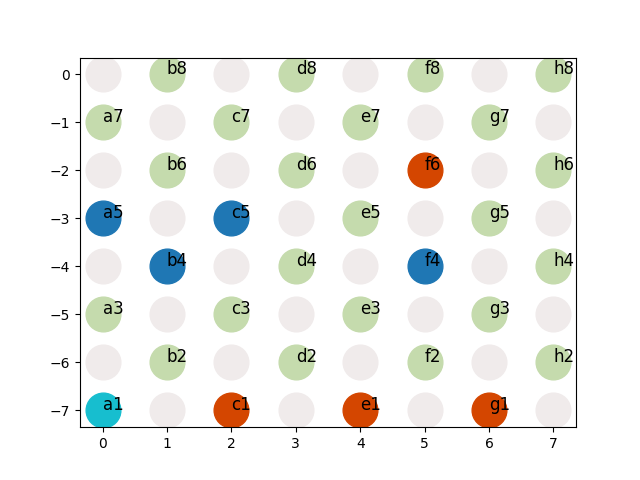
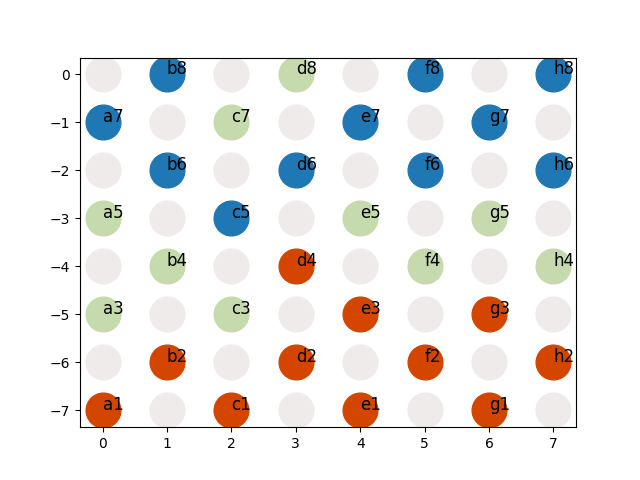
final code commit

diff --git a/orchestration.py b/orchestration.py
@@ -22,14 +22,14 @@ for i in range(0,50):
         print("time_up")
     change_time("input_dumb.txt", dumb_time)
     starttime = timeit.default_timer()
-    subprocess.call(['python3', 'homework_dumb.py'])
+    subprocess.call(['python3', 'checkers_agent_dumb.py'])
     dumb_time -= (timeit.default_timer() - starttime)*10
 
     print("dumb one played")
     time.sleep(1)
     change_time("input_smart.txt", smart_time)
     starttime = timeit.default_timer()
-    subprocess.call(['python3','homework_smarter.py'])
+    subprocess.call(['python3','checkers_agent_smart.py'])
     smart_time -= timeit.default_timer() - starttime
     print("smart one played")
     time.sleep(1)

diff --git a/checkers_agent.py b/checkers_agent.py
@@ -400,7 +400,7 @@ class problem_struct:
 
 def main():
     #starttime = timeit.default_timer()
-    f = open("input_ali.txt", "r")
+    f = open("input.txt", "r")
     #f2 = open("output.txt", "w")
 
     game_type = f.readline().rstrip()

diff --git a/README.md b/README.md
@@ -32,8 +32,7 @@
 <h2 id="about-the-project"> :pencil: About The Project</h2>
 
 <p align="justify"> 
-  For those of you not familiar with Pacman, it's a game where Pacman (the yellow circle with a mouth in the above figure) moves around in a maze and tries to eat as many food pellets (the small white dots) as possible, while avoiding the ghosts (the other two agents with eyes in the above figure). If Pacman eats all the food in a maze, it wins.
-</p>
+  English draughts (British English) also called American checkers or straight checkers, is a form of the strategy board game checkers. It is played on an 8×8 checkerboard with 12 pieces per side.</p>
 
 ![-----------------------------------------------------](https://raw.githubusercontent.com/andreasbm/readme/master/assets/lines/rainbow.png)
 
@@ -41,8 +40,22 @@
 <h2 id="overview"> :cloud: Overview</h2>
 
 <p align="justify"> 
-  In this project, the Pacman agent will find paths through his maze world, both to reach a particular location and to collect food efficiently. I implemented general search algorithms such as depth-first, breadth-first, uniform cost, and A* search algorithms which are used to solve navigation problems in the Pacman world.
-</p>
+  In this project, the checkers AI agent needs to find the most optimal move to make given an input.txt file of the below format. 'b' and 'w' represent regular black and white coins respectively. 'B' and 'W' represent black and white coins that have become kings coins and can move front and back.
+  <pre><code>GAME
+BLACK
+100.0
+........
+....W...
+.....w..
+....W.w.
+........
+w.w.W.w.
+...B....
+......w.</code></pre>
+The AI agent needs to produce the most viable move output in the following format. If multiple jumps are possible the sequence of jumps needs to be written into the output folder. For the above example input below is one suggested move output which results in most points.
+  <pre><code>J d2 f4
+J f4 d6
+J d6 f8</code></pre>
 
 ![-----------------------------------------------------](https://raw.githubusercontent.com/andreasbm/readme/master/assets/lines/rainbow.png)
 
@@ -50,23 +63,25 @@
 <h2 id="project-files-description"> :floppy_disk: Project Files Description</h2>
 
 <ul>
-  <li><b>search.py</b> - Where all of the search algorithms reside.</li>
-  <li><b>searchAgents.py</b> - Where all of the search-based agents reside.</li>
-  <li><b>pacman.py</b> - The main file that runs Pacman games. This file also describes a Pacman GameState types.</li>
-  <li><b>game.py</b> - The logic behind how the Pacman world works.</li>
-  <li><b>util.py</b> - Useful data structures for implementing search algorithms.</li>
+  <li><b>checkers_agent.py</b> - Reads the input.txt file and writes the best move in output.txt</li>
+  <li><b>orchestration.py</b> -  Competes two programs checker_agent_smart.py against checkers_agent_dumb.py alerternatively calling the two programs and making them write and read from their respective input and output files</li>
+  algorithms.</li>
 </ul>
 
 <h3>Some other supporting files</h3>
 <ul>
-  <li><b>graphicsDisplay.py</b> - Graphics for Pacman.</li>
-  <li><b>graphicsUtils.py</b> - Support for Pacman graphics.</li>
-  <li><b>textDisplay.py</b> - ASCII graphics for Pacman.</li>
-  <li><b>ghostAgents.py</b> - Agents to control ghosts.</li>
-  <li><b>keyboardAgents.py</b> - Keyboard interfaces to control Pacman.</li>
-  <li><b>layout.py</b> - Code for reading layout files and storing their contents.</li>
-  <li><b>autograder.py</b> - Project autograder.</li>
-  <li><b>testParser.py</b> - Parses autograder test and solution files.</li>
+
+  <li><b>input.txt</b> - Example input file</li>
+  <li><b>output.txt</b> - Example output file</li>
+  <li><b>board_move1.png</b> - Parses autograder test and solution files.</li>
+  <li><b>input_basic.txt</b> - Full board input configuration</li>
+  <li><b>input_smart.txt</b> - Input file read by the smart agent</li>
+  <li><b>input_dumb.txt</b> - Input file read by the dumb agent</li>
+  
+  
+  <li><b>output_smart.txt</b> - Output file the smart agent writes into</li>
+  <li><b>output_dumb.txt</b> - Output file the dumb agent writes into</li>
+  
   <li><b>testClasses.py</b> - General autograding test classes.</li>
   <li><b>test_cases/</b> - Directory containing the test cases for each scenario.</li>
   <li><b>searchTestClasses.py</b> - Project specific autograding test classes.</li>
